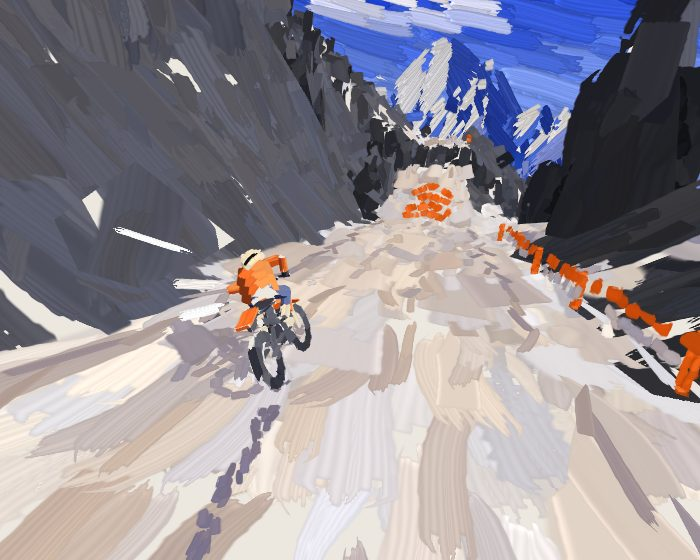
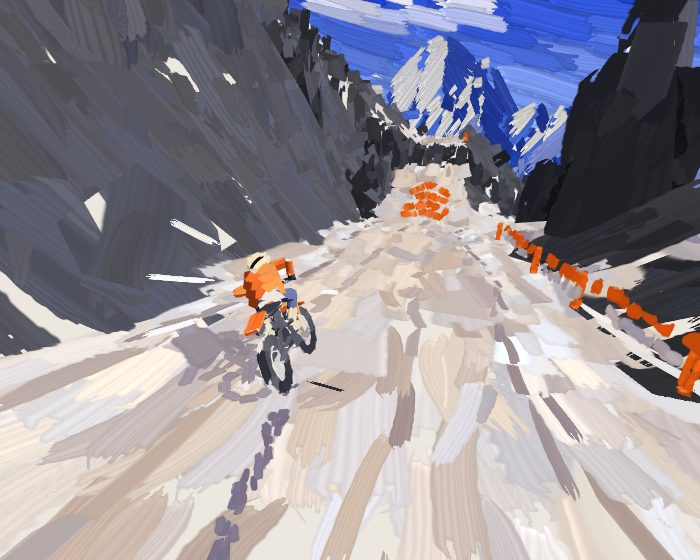
lab/switchback: painted callouts default; helmet on the ground is a crash; snow drifts on the road
Callouts lettered in by default (ink=0 for type). The helmet touching down
upside down before the wheels crashes (ON YOUR HEAD); the trickster checks
head clearance before flipping. Snow drifts in from both road edges by a
wandering reach, with blown streaks, so the track isn't one width.

Claude-Session: https://claude.ai/code/session_01XxjdrEubiC3ZZ3ppUeUc93

diff --git a/cells/lab/client/switchback/paint.ts b/cells/lab/client/switchback/paint.ts
@@ -988,12 +988,34 @@ export function courseStrokes(c: Course, s0: number, s1: number): Float32Array {
   const open = (s: number) => { const a = c.at(s), b = c.at(s + 1); return !(a.feature === 'gap' || b.feature === 'gap' || a.feature === 'ramp' || a.feature === 'deck'); };
   const jag = (s: number, k: number) => (hash3(c.seed, Math.round(s), k) - 0.5) * 0.5;
   const road = (s: number, u: number) => trackY(c, s, u), g = (s: number, u: number) => ground(c, s, u);
-  for (let s = s0; s < s1; s += 1.6 * (0.8 + R() * 0.4)) {
+  // (snow drifted onto the road from each side, as far as the wind's left it: a reach that wanders along the way, from
+  // nothing (the road's own edge) to most of the way across, so the track's never one width. White strokes along the
+  // way, row on row from the edge in to the reach, their inner ends ragged; the worn edge (a step darker) where the snow
+  // gives out, not along the road's edge)
+  const reach = (s: number, side: number) => {
+    const k = c.seed * 3.1 + side * 17.7, v = 0.5 + 0.32 * Math.sin(s / 23 + k) + 0.22 * Math.sin(s / 9.5 + k * 1.7) + 0.14 * Math.sin(s / 4.1 + k * 0.6);
+    return Math.max(0, Math.min(1, (v - 0.32) / 0.68)) * 0.72;
+  };
+  for (let s = s0; s < s1; s += 1.1 * (0.8 + R() * 0.4)) {
     if (!open(s)) continue;
     const h = c.at(s).width / 2;
-    // (the road's edges)
-    if (R() > 0.12) lay(s, -h + 0.25 + jag(s, 1), s + 1, -h + 0.25 + jag(s + 1, 1), road, M.RUT, 0, 2.8, 0.26, [13, 0, 1]);
-    if (R() > 0.12) lay(s, h - 0.25 + jag(s, 2), s + 1, h - 0.25 + jag(s + 1, 2), road, M.RUT, 0, 2.8, 0.26, [13, 0, 1]);
+    for (const side of [-1, 1]) {
+      const r0 = reach(s, side), r1 = reach(s + 1.4, side), wA = h * r0, wB = h * r1;
+      // (rows of snow from the edge to the reach)
+      for (let d = 0.15; d < Math.max(wA, wB) + 0.2; d += 0.45) {
+        if (d > wA + 0.3 && d > wB + 0.3) break;
+        const ua = side * (h - Math.min(d, wA) + jag(s, 7 + Math.round(d * 3)) * 0.6), ub = side * (h - Math.min(d, wB) + jag(s + 1.4, 7 + Math.round(d * 3)) * 0.6);
+        lay(s, ua, s + 1.4, ub, road, R() < 0.75 ? M.WHITE : M.SNOW, R() < 0.7 ? 0.02 : 0.3, 2.8, 0.85, [11, 0, 10, 12, 1]);
+      }
+      // (the worn edge where the snow gives out)
+      if (R() > 0.25) lay(s, side * (h - wA - 0.2 + jag(s, side + 2) * 0.5), s + 1.4, side * (h - wB - 0.2 + jag(s + 1.4, side + 2) * 0.5), road, M.RUT, 0, 2.6, 0.24, [13, 0, 1]);
+    }
+    // (now and then snow blown across the middle, a streak or two on the slant)
+    if (R() < 0.18) {
+      const u = (R() - 0.5) * h * 1.2, du = (R() - 0.5) * 2.5;
+      lay(s, u, s + 1.8, u + du, road, M.WHITE, 0.02, 2.4, 0.6, [10, 11, 12]);
+      if (R() < 0.5) lay(s + 0.6, u + 0.4, s + 2.2, u + du + 0.3, road, M.SNOW, 0.3, 2, 0.4, [10, 12]);
+    }
   }
   // (the drop's lip, lit)
   for (let s = s0; s < s1; s += 2.2 * (0.8 + R() * 0.4)) {

diff --git a/cells/lab/client/switchback/main.ts b/cells/lab/client/switchback/main.ts
@@ -309,8 +309,9 @@ if (direct) { menu.classList.remove('on'); menu.setAttribute('inert', ''); docum
 
 /** a word across the screen for a moment (a checkpoint passed, a return to one) */
 const note = document.getElementById('note')!;
-// (`ink`: the callouts written by hand in the picture (callout.ts); the type kept, unseen, for screen readers)
-const inkFlag = q.has('ink') && q.get('ink') !== '0', callouts = new Callouts();
+// (the callouts painted into the picture (callout.ts), `ink=0` for the type instead; the type kept, unseen, for screen
+// readers)
+const inkFlag = q.get('ink') !== '0', callouts = new Callouts();
 if (inkFlag) note.style.opacity = '0';
 const inkText = inkFlag ? q.get('inktext') : null; let inkAt = -9;
 let noteTimer = 0;
@@ -351,7 +352,7 @@ function tick(dt: number) {
     if (e.kind === 'checkpoint') say(`CHECKPOINT ${e.k}`);
     if (e.kind === 'trick') say(TRICKS[BODY[e.k]].name);
     if (e.kind === 'refuse') say(e.k ? 'NO ROOM TO FLIP' : 'NOT ENOUGH AIR');
-    if (e.kind === 'crash' && rider.crashWhy) say(({ short: 'SHORT', face: 'INTO THE FACE', 'off the bike': 'STILL OFF THE BIKE', whip: 'STILL WHIPPED', 'nose up': 'NOSE UP', 'nose down': 'NOSE DOWN', hard: 'TOO HARD', over: 'OVER THE EDGE', wall: 'INTO THE WALL' } as Record<string, string>)[rider.crashWhy] ?? 'DOWN');
+    if (e.kind === 'crash' && rider.crashWhy) say(({ short: 'SHORT', face: 'INTO THE FACE', 'off the bike': 'STILL OFF THE BIKE', whip: 'STILL WHIPPED', 'nose up': 'NOSE UP', 'nose down': 'NOSE DOWN', hard: 'TOO HARD', over: 'OVER THE EDGE', wall: 'INTO THE WALL', head: 'ON YOUR HEAD' } as Record<string, string>)[rider.crashWhy] ?? 'DOWN');
     if (e.kind === 'flip') { const n = Math.abs(e.k); say(`${n > 2 ? `${n}× ` : n === 2 ? 'DOUBLE ' : ''}${e.k > 0 ? 'BACKFLIP' : 'FRONT FLIP'}`); }
     // (put back at the flag: the eye goes with you at once, not in a long swoop)
     if (e.kind === 'respawn') { say(e.k ? `CHECKPOINT ${e.k}` : 'START'); snapEye(); }

diff --git a/cells/lab/client/switchback/sim.ts b/cells/lab/client/switchback/sim.ts
@@ -340,6 +340,16 @@ export class Rider {
     void inp;
     // (the wall, from the air: a crash)
     if (this.u < -half - 1.4 && this.y < p.y + 0.3) { this.crash('wall'); return; }
+    // (the helmet into the ground before the wheels (upside down in a flip, or nose over): a crash. The head about 1.9 m
+    // up the bike's own up from where it stands, turned with its pitch)
+    {
+      const fx = Math.sin(this.heading), fz = Math.cos(this.heading), cp = Math.cos(this.pitch), sp = Math.sin(this.pitch), hh = 1.9;
+      const hx = this.x - fx * sp * hh, hy = this.y + cp * hh, hz = this.z - fz * sp * hh;
+      // (only past upright, and only when the helmet's the lowest of it, under both wheels: steep off a lip, nose up, the
+      // head's low but the back wheel's lower)
+      const wheelY = this.y + 0.4 * cp - Math.abs(sp) * 0.78;
+      if (cp < -0.1 && hy < wheelY && hy < this.groundAt(hx, hz) + 0.12) { this.crashImp = 0; this.crash('head'); return; }
+    }
     const sy = this.surfaceY(this.s, this.u);
     if (this.y <= sy) {
       // (down. The impact is the speed into the ground's own slope, the way you're going: a landing down a slope that

diff --git a/cells/lab/client/switchback/tricks.ts b/cells/lab/client/switchback/tricks.ts
@@ -98,7 +98,10 @@ export class Trickster {
     // (a flip where there's air for one: pulled as hard as it needs to come round a whole turn and square up with the
     // margin to spare, if a full pull can)
     const need = (Math.PI * 2 + wrap(plan.slope - Math.atan2(rise, 1))) / Math.max(0.1, T - MARGIN);
-    if (T > 1.5 && need / LIP.spin <= 0.95 && roll < 0.6) { plan.kind = 'flip'; plan.pull = Math.max(0.25, need / LIP.spin); }
+    // (and the helmet clear of the ground when it's upside down, halfway round: the bike then about two metres over it)
+    const ti = Math.PI / Math.max(0.1, need), vh = v * k, y0 = b.y, vy0 = v * rise * k + 1.2;
+    const under = c.point(lipS + vh * ti, 0).y, clear = y0 + vy0 * ti - 4.9 * ti * ti - under;
+    if (T > 1.5 && need / LIP.spin <= 0.95 && roll < 0.6 && clear > 2.6) { plan.kind = 'flip'; plan.pull = Math.max(0.25, need / LIP.spin); }
     else if (T > 1.2 && roll < 0.85) {
       // (the body: one trick, or two strung together where there's air for both)
       plan.kind = 'body';

diff --git a/cells/lab/static/switchback.md b/cells/lab/static/switchback.md
@@ -16,7 +16,7 @@ A moving composition of cut colour: cobalt space, pale passages, charcoal weight
 
 ## Riding
 
-Drag left or right to steer: the drag's distance from where it began sets how hard you turn. Nothing steers for you: the bike goes where it points, and with no input it runs straight on, so every bend has to be ridden. Turn hard at speed and the rear steps out: the way you're travelling follows the way the bike points only as far as the tyres grip (less at speed, less braking), so the bike yaws past its line and slides, scrubbing pace and throwing roost, until it lines up again. Drag up and down to drive, as far as you drag, like the steering: up opens the throttle wider (a harder pull, toward ~185 km/h), down brakes; left alone, the engine and the hill keep you going as they always have. ← → or A D steer from a keyboard, ↑ ↓ or W S drive. **Jumps** come in four sizes, the orange chevrons painted on the ramp counting them: a **hop** (one chevron; under a second or so in the air), a **kicker** (two; about two seconds), a **big kicker** (three; nearly three) and a **booter** (four; three and a half and more: the big set piece, every kilometre or so, a little way past a checkpoint so a missed one doesn't cost much). Each is built to its flight: a ramp, a gap, and a landing shaped to the flight a rider at the usual pace makes, so whoever clears it comes down along it; the big ones have a straight run-in eased toward level and a steep ramp. Most are the mountain's own: the take-off a mound of snow and rock the ground rises into, the gap a **cleft** cracking the mountainside (for a hop or a kicker) or a **gorge** cut through it (for the big ones), its notch running up the wall as a gully and on down the drop as a channel, no flat floors: a cut falls steeply from its lips into a V, a stream's channel down its middle, its bed falling away down the mountain and rough with rock; a stream along a gorge's floor, and over some gorges' rims on the wall side a waterfall, thrown clear of the rock and falling in an arc to the floor, bands of it sliding down, spray where it lands; some kickers are still built, a ramp on black trestles, over a cleft like the rest. Too slow and you fall short into the gap; too fast (the throttle held wide open into a big one) and you overshoot the landing onto the flat: landed square, the bike takes it, slammed down and a third of your pace gone; crooked, it's a crash. Jumps launch you; whoops (a run of rollers) throw you at speed; any crest that falls away faster than you would drop puts you in the air. **The take-off decides the flight.** Nothing you do in the air steers: the rider's body keeps the bike on line (easing the flight back along the road and toward its middle, gently, at most about 0.6 rad/s), but where you go is where the lip sent you. On a ramp, down isn't the brake, it's the **pull**: how hard you're pulling as you leave the lip is how fast the bike rotates, nose up, and pulled hard enough (and with air enough: a whole turn wants about two and a half seconds, so a big kicker or a booter) it comes round into a **backflip**. Once it's committed you can only trim it: in the air the throttle spins it faster and the rear brake slows it, within a band around what the lip gave you, so a flip pulled too lightly can't be saved and one pulled too hard has to be held back. Off a flight that isn't a flip, up and down only tilt the nose (about 20° at most either way) and it settles back to the flight's line when you let go: nothing you press builds into a rotation, so a straight landing is always there. A light pull (as a brake into a ramp would be) counts for nothing; and a pull the flight can't bring round to a whole turn, even trimmed as hard as it can be, isn't committed at all (NO ROOM TO FLIP): the lip flies the flight forward to see. Up and down are measured from where your drag stood when you left the ground, so a pull held through the lip doesn't count twice. **Tricks are drawn.** Steering does nothing in the air. Instead, put a finger down while you're up (a fresh touch, or a second finger if you're still holding the first) and draw: a straight line is one of the body's tricks by its direction, **→ NO HANDER** (arms out wide), **← NO FOOTER** (legs kicked out behind), **↑ SUPERMAN** (both legs stretched straight back, the body flat over the bike), **↓ CAN-CAN** (the left leg swung over the seat to join the right), and on the diagonals **↗ HEEL CLICKER** (both feet up over the bars in front, heels together), **↖ NAC NAC** (the right leg swung back over the rear fender), **↘ SEAT GRAB** (a hand back on the seat, the legs kicked back) and **↙ ROCK SOLID** (hands and feet off at once, the body floated above the bike: the slowest in and out, and worth the most); the straight ways take a little more of the circle than the diagonals, so a line drawn a little off across still reads as across; a **loop** is the **WHIP**, the bike swung out beneath you, clockwise to the right, anticlockwise to the left. The line shows where your finger goes, turning orange once it's read. The trick is asked the moment the shape is clear and held for as long as your finger stays down: lift it and the rider gets back on (a quarter to two fifths of a second, the superman slowest), or draw another shape without lifting and the next trick is strung on from the first. Each is worth more the longer it's held all the way, and half as much again for each one strung on in the same flight. Still off the bike as you land is a crash, so the hold is the risk. But a trick the air left can't fit is never attempted: as you ask for it the sim flies the rest of the flight forward, and if there isn't time to get into it and back out, it's refused (NOT ENOUGH AIR) and costs nothing; ask for something else to try again. Keys: Z X C V the straight ways, R F T G the diagonals, Q E the whip, held. Over a crest, an air you didn't ask for, the rider's body lines the bike up with the road twice as firmly as off a jump, so a bend under a crest doesn't carry you off it. How the bike meets the ground matters (and a fall says why: SHORT, TOO HARD, NOSE UP, NOSE DOWN, STILL OFF THE BIKE, STILL WHIPPED): square to its slope, the landing's soft and keeps its pace, and it takes nearly twice the slam a crooked one does (a nose pushed down onto a falling slope carries you on a little faster); a little off and a wheel slams; well off (nose first, or looped over onto the back wheel) is a crash. A whole turn landed is a BACKFLIP or a FRONT FLIP (DOUBLE, or more), across the screen with a three-note chime. Bring it back straight before you land: still out a little and it comes down yawed and slides straight, scrubbing pace; still well out (past about 34°) and it's a crash. The wall on the left glances you off it and costs pace; the drop side, on the right, is forgiving: you can ride the shoulder past the fence and the slope beyond it (the bike rides the ground as it's drawn there, and slides down it where it's steep), and only going too far down it, landing too hard into it, or riding into a face (an outcrop, the side of a raised deck) ends it. A fall or a crash puts you back at the last **checkpoint**: the flags on the wall side, further apart the further down you are (about 300 m apart at the top, about a kilometre five kilometres on), each one counted as you pass it (CHECKPOINT n across the screen, and again when you're put back at it), and you start again just past it, going.
+Drag left or right to steer: the drag's distance from where it began sets how hard you turn. Nothing steers for you: the bike goes where it points, and with no input it runs straight on, so every bend has to be ridden. Turn hard at speed and the rear steps out: the way you're travelling follows the way the bike points only as far as the tyres grip (less at speed, less braking), so the bike yaws past its line and slides, scrubbing pace and throwing roost, until it lines up again. Drag up and down to drive, as far as you drag, like the steering: up opens the throttle wider (a harder pull, toward ~185 km/h), down brakes; left alone, the engine and the hill keep you going as they always have. ← → or A D steer from a keyboard, ↑ ↓ or W S drive. **Jumps** come in four sizes, the orange chevrons painted on the ramp counting them: a **hop** (one chevron; under a second or so in the air), a **kicker** (two; about two seconds), a **big kicker** (three; nearly three) and a **booter** (four; three and a half and more: the big set piece, every kilometre or so, a little way past a checkpoint so a missed one doesn't cost much). Each is built to its flight: a ramp, a gap, and a landing shaped to the flight a rider at the usual pace makes, so whoever clears it comes down along it; the big ones have a straight run-in eased toward level and a steep ramp. Most are the mountain's own: the take-off a mound of snow and rock the ground rises into, the gap a **cleft** cracking the mountainside (for a hop or a kicker) or a **gorge** cut through it (for the big ones), its notch running up the wall as a gully and on down the drop as a channel, no flat floors: a cut falls steeply from its lips into a V, a stream's channel down its middle, its bed falling away down the mountain and rough with rock; a stream along a gorge's floor, and over some gorges' rims on the wall side a waterfall, thrown clear of the rock and falling in an arc to the floor, bands of it sliding down, spray where it lands; some kickers are still built, a ramp on black trestles, over a cleft like the rest. Too slow and you fall short into the gap; too fast (the throttle held wide open into a big one) and you overshoot the landing onto the flat: landed square, the bike takes it, slammed down and a third of your pace gone; crooked, it's a crash. Jumps launch you; whoops (a run of rollers) throw you at speed; any crest that falls away faster than you would drop puts you in the air. **The take-off decides the flight.** Nothing you do in the air steers: the rider's body keeps the bike on line (easing the flight back along the road and toward its middle, gently, at most about 0.6 rad/s), but where you go is where the lip sent you. On a ramp, down isn't the brake, it's the **pull**: how hard you're pulling as you leave the lip is how fast the bike rotates, nose up, and pulled hard enough (and with air enough: a whole turn wants about two and a half seconds, so a big kicker or a booter) it comes round into a **backflip**. Once it's committed you can only trim it: in the air the throttle spins it faster and the rear brake slows it, within a band around what the lip gave you, so a flip pulled too lightly can't be saved and one pulled too hard has to be held back. Off a flight that isn't a flip, up and down only tilt the nose (about 20° at most either way) and it settles back to the flight's line when you let go: nothing you press builds into a rotation, so a straight landing is always there. A light pull (as a brake into a ramp would be) counts for nothing; and a pull the flight can't bring round to a whole turn, even trimmed as hard as it can be, isn't committed at all (NO ROOM TO FLIP): the lip flies the flight forward to see. Up and down are measured from where your drag stood when you left the ground, so a pull held through the lip doesn't count twice. **Tricks are drawn.** Steering does nothing in the air. Instead, put a finger down while you're up (a fresh touch, or a second finger if you're still holding the first) and draw: a straight line is one of the body's tricks by its direction, **→ NO HANDER** (arms out wide), **← NO FOOTER** (legs kicked out behind), **↑ SUPERMAN** (both legs stretched straight back, the body flat over the bike), **↓ CAN-CAN** (the left leg swung over the seat to join the right), and on the diagonals **↗ HEEL CLICKER** (both feet up over the bars in front, heels together), **↖ NAC NAC** (the right leg swung back over the rear fender), **↘ SEAT GRAB** (a hand back on the seat, the legs kicked back) and **↙ ROCK SOLID** (hands and feet off at once, the body floated above the bike: the slowest in and out, and worth the most); the straight ways take a little more of the circle than the diagonals, so a line drawn a little off across still reads as across; a **loop** is the **WHIP**, the bike swung out beneath you, clockwise to the right, anticlockwise to the left. The line shows where your finger goes, turning orange once it's read. The trick is asked the moment the shape is clear and held for as long as your finger stays down: lift it and the rider gets back on (a quarter to two fifths of a second, the superman slowest), or draw another shape without lifting and the next trick is strung on from the first. Each is worth more the longer it's held all the way, and half as much again for each one strung on in the same flight. Still off the bike as you land is a crash, so the hold is the risk. But a trick the air left can't fit is never attempted: as you ask for it the sim flies the rest of the flight forward, and if there isn't time to get into it and back out, it's refused (NOT ENOUGH AIR) and costs nothing; ask for something else to try again. Keys: Z X C V the straight ways, R F T G the diagonals, Q E the whip, held. Over a crest, an air you didn't ask for, the rider's body lines the bike up with the road twice as firmly as off a jump, so a bend under a crest doesn't carry you off it. How the bike meets the ground matters (and a fall says why: SHORT, TOO HARD, NOSE UP, NOSE DOWN, ON YOUR HEAD, STILL OFF THE BIKE, STILL WHIPPED): square to its slope, the landing's soft and keeps its pace, and it takes nearly twice the slam a crooked one does (a nose pushed down onto a falling slope carries you on a little faster); a little off and a wheel slams; well off (nose first, or looped over onto the back wheel) is a crash. And upside down in a flip with too little height under you, the helmet touches down before the wheels: a crash (ON YOUR HEAD); the showing-off rider only flips where its head will clear the ground halfway round. A whole turn landed is a BACKFLIP or a FRONT FLIP (DOUBLE, or more), across the screen with a three-note chime. Bring it back straight before you land: still out a little and it comes down yawed and slides straight, scrubbing pace; still well out (past about 34°) and it's a crash. The wall on the left glances you off it and costs pace; the drop side, on the right, is forgiving: you can ride the shoulder past the fence and the slope beyond it (the bike rides the ground as it's drawn there, and slides down it where it's steep), and only going too far down it, landing too hard into it, or riding into a face (an outcrop, the side of a raised deck) ends it. A fall or a crash puts you back at the last **checkpoint**: the flags on the wall side, further apart the further down you are (about 300 m apart at the top, about a kilometre five kilometres on), each one counted as you pass it (CHECKPOINT n across the screen, and again when you're put back at it), and you start again just past it, going.
 
 The rider is yours from the start; `auto` hands the steering to the sim's own rider, for a run like yours in the page's mode: scored, its tricks called, ended with its card, but never kept on your board (`auto=tricks` shows off; the lab's listing shows that, its score and calls over it). The eye rides over your right shoulder, the drop side, so the wall rises beyond the rider and the valley opens under you.
 
@@ -120,6 +120,7 @@ An experiment in drawing the mountain as paint, after looking closely at a brush
 - **The speed in the marks, near the eye.** Within about 14 m of the eye (gone by 30 m), at pace every stroke turns, on its own face, toward the way the eye is going and draws out by as far as the eye goes in a moment (the eye's smoothed motion in the world: one way for every stroke, so they hold steady), so the ground and the rock just round you fall into line and stream past; further off the subject alone lays each stroke (`stretch=0` none, `stretch=2` twice). Your track and the rider's shadow are laid flat, as the ground is. The shadow lies on the road ahead and behind where it falls, not on a level plane at the rider's feet (which a slope going away left standing in the air).
 - **Strokes the course calls for.** Laid deliberately from the course, not scattered over faces, each lying on the surface (its normal the surface's own there): the road's two edges in long strokes following it, the drop's lip as a lit edge of snow, and the **ruts**, the worn lines down the road as `ruts.ts` has them, a step darker than the road (the gouges, cut to the eye each frame, can't be painted; these are the same lines, fixed to the course). No wall-foot shade: those strokes spiked out of the slope rather than lying on it. The rider's shadow is painted, flat on the road where it falls.
 - **The rider, by its parts** (after the rider study). The rider's builder hands over its parts as it builds them (each limb, the jacket's body, the helmet, the wheels, the machine's boxes), and each is painted with its form, on the side you see: arms, legs, boots and tubes in strokes along them, a few round each, with a light caught along the side toward the sun; the jacket's body in a few big strokes wrapping it on a slant; the helmet in strokes round it, its goggle strap one dark band; each wheel a ring of strokes round its axle, turning with it, and its tread; the boxes (tank, fenders, seat, plates) a couple of strokes along each face you see. Each stroke lit or shaded by its own place on the part, in its material's four values: the jacket orange from lit to deep shade, the jeans denim, the tyres and the machine near-black with grey lights, helmet and boots cream (painted facet by facet, it was a flat orange silhouette over one charcoal column). At speed the jacket trails dry strokes off behind it. Its shadow is cast by its parts: each thrown along the sun onto the ground and painted there in a broad flat lavender stroke (a wheel a ring of them), the figure's shape in a few strokes.
+- **Snow on the road.** Snow drifts onto the road from each side as far as the wind's left it: a reach that wanders along the way, from nothing to most of the way across, laid in white strokes row on row from the edge in, their inner ends ragged; the worn, darker edge where the snow gives out rather than along the road's edge; and now and then a streak blown across the middle. So the track's never one width.
 - **No occlusion holes.** Only the ground and the rider claim depth and the stencil. The things standing on the ground (the fence, the poles, the pines, a kicker's boards), the flags and the falls claim neither: what's behind them is painted (the ground, the ranges, the sky), and their strokes over it, so a gap between their strokes shows what's behind, never paper. In each chunk the ground's strokes and the way's are laid first, the things' after them, by order; and the things are laid with the masses' front, not the detail's, so they're there as soon as the ground they stand on is. (The rider keeps its depth: its strokes are on both sides of it, and its own depth hides its far side.)
 - **Flags.** Painted by how far off they are. Near (within about 25 m, gone by 40): strokes riding the cloth, four rows from the pole to the free end, four along each, each tied to its own place on the cloth rather than to a facet (painted facet by facet, their strokes were reshaped every frame and shimmered), so they move with the wave and hold still on it; the wave in their colour, lit or in shade as the cloth turns to the sun. Far (from about 20 m): the banner one gesture, a flick from the pole's top out along it, whipping thin, and a shorter one over it, an orange mark on a pole that reads from far ahead. Between, one fades into the other. The pole is one dark upright stroke. (Seed 1 has flags at 155, 527, 899, 1395.)
 - **Waterfalls.** Not a ribbon but strokes in several sheets, one in front of another: the back one lilac-grey and dense (the water in shadow, covering the fall), white over it, a few pale blue in front; each a run of streaks sliding down the fall's arc with the water, drawn out by how fast it's falling where it is (short at the lip, long below), growing as it comes over and shrinking as it lands; a few strokes across the lip, glassy; spray at the foot, dabs thrown up and out, growing and fading. Built each frame, every streak keeping its place in the flow, so it moves with the water rather than flickering. (`at=<station>` puts you on the line at a station, for looking at a place: seed 1 has falls at 621, 813, 1186, 1629.)
@@ -181,9 +182,9 @@ All made in the page (WebAudio, no files):
 - **The ground:** a gravel crunch under the tyres, more in a slide, none in the air.
 - **One-shots:** a landing's thump, a crash, a glance off rock, a checkpoint's two-note chime.
 
-## Painted callouts (`ink`, a flag for now)
+## Painted callouts
 
-With `ink` in the address, a trick, a checkpoint or a wipe-out isn't set in type over the picture: it's lettered into it in brushed capitals (`client/switchback/callout.ts`), drawn after the game's own title (a heavy grotesque set tight): broad letters, strokes about a fifth of their height, barely slanted, each letter a touch off its line; a cap height about a fifteenth of the picture, so it's a callout, not a banner. Each letter (A–Z, 0–9, a few marks) is a few strokes laid in the order a painter lays them, and a round letter's bowl or an S is one stroke: the painter's own brush stamp bent along it (`Brush2D.along`, the stamp cut into thin slices along its length, each laid where it falls on the curve), so its bristles follow the bend. Under each stroke a thin solid core, so the letter holds its shape while its edges are the bristles' own, ragged as the scenery's strokes are; and, as the scenery's, no two strokes the same colour (the snow's creams, the fence's oranges, a few a step darker). All the letters are laid at once, each a touch after the one before, a letter's strokes one after another quickly (written strictly in order, a long callout took too long to read); held, then painted out: each stroke taken up again the way it was laid, its start drawn along after it to its end, the letters a touch apart as they came (no fade: it's paint, laid and lifted); cream over an orange stroke a little offset (the type's own orange shadow). It's drawn in the speed layer's canvas, so it's in a REC or EXPORT video; the type is kept, unseen, for screen readers. `inktext=<words>` letters those words every two seconds, for looking at it. (Tried first: the autograph experiment's joined hand, too quiet and personal for a shout at speed; then thin slanted sign-painter capitals built from straight brush pieces, whose round letters broke into joints.)
+A trick, a checkpoint or a wipe-out is lettered into the picture (`ink=0` for the type instead) in brushed capitals (`client/switchback/callout.ts`), drawn after the game's own title (a heavy grotesque set tight): broad letters, strokes about a fifth of their height, barely slanted, each letter a touch off its line; a cap height about a fifteenth of the picture, so it's a callout, not a banner. Each letter (A–Z, 0–9, a few marks) is a few strokes laid in the order a painter lays them, and a round letter's bowl or an S is one stroke: the painter's own brush stamp bent along it (`Brush2D.along`, the stamp cut into thin slices along its length, each laid where it falls on the curve), so its bristles follow the bend. Under each stroke a thin solid core, so the letter holds its shape while its edges are the bristles' own, ragged as the scenery's strokes are; and, as the scenery's, no two strokes the same colour (the snow's creams, the fence's oranges, a few a step darker). All the letters are laid at once, each a touch after the one before, a letter's strokes one after another quickly (written strictly in order, a long callout took too long to read); held, then painted out: each stroke taken up again the way it was laid, its start drawn along after it to its end, the letters a touch apart as they came (no fade: it's paint, laid and lifted); cream over an orange stroke a little offset (the type's own orange shadow). It's drawn in the speed layer's canvas, so it's in a REC or EXPORT video; the type is kept, unseen, for screen readers. `inktext=<words>` letters those words every two seconds, for looking at it. (Tried first: the autograph experiment's joined hand, too quiet and personal for a shout at speed; then thin slanted sign-painter capitals built from straight brush pieces, whose round letters broke into joints.)
 
 ## Video
 
